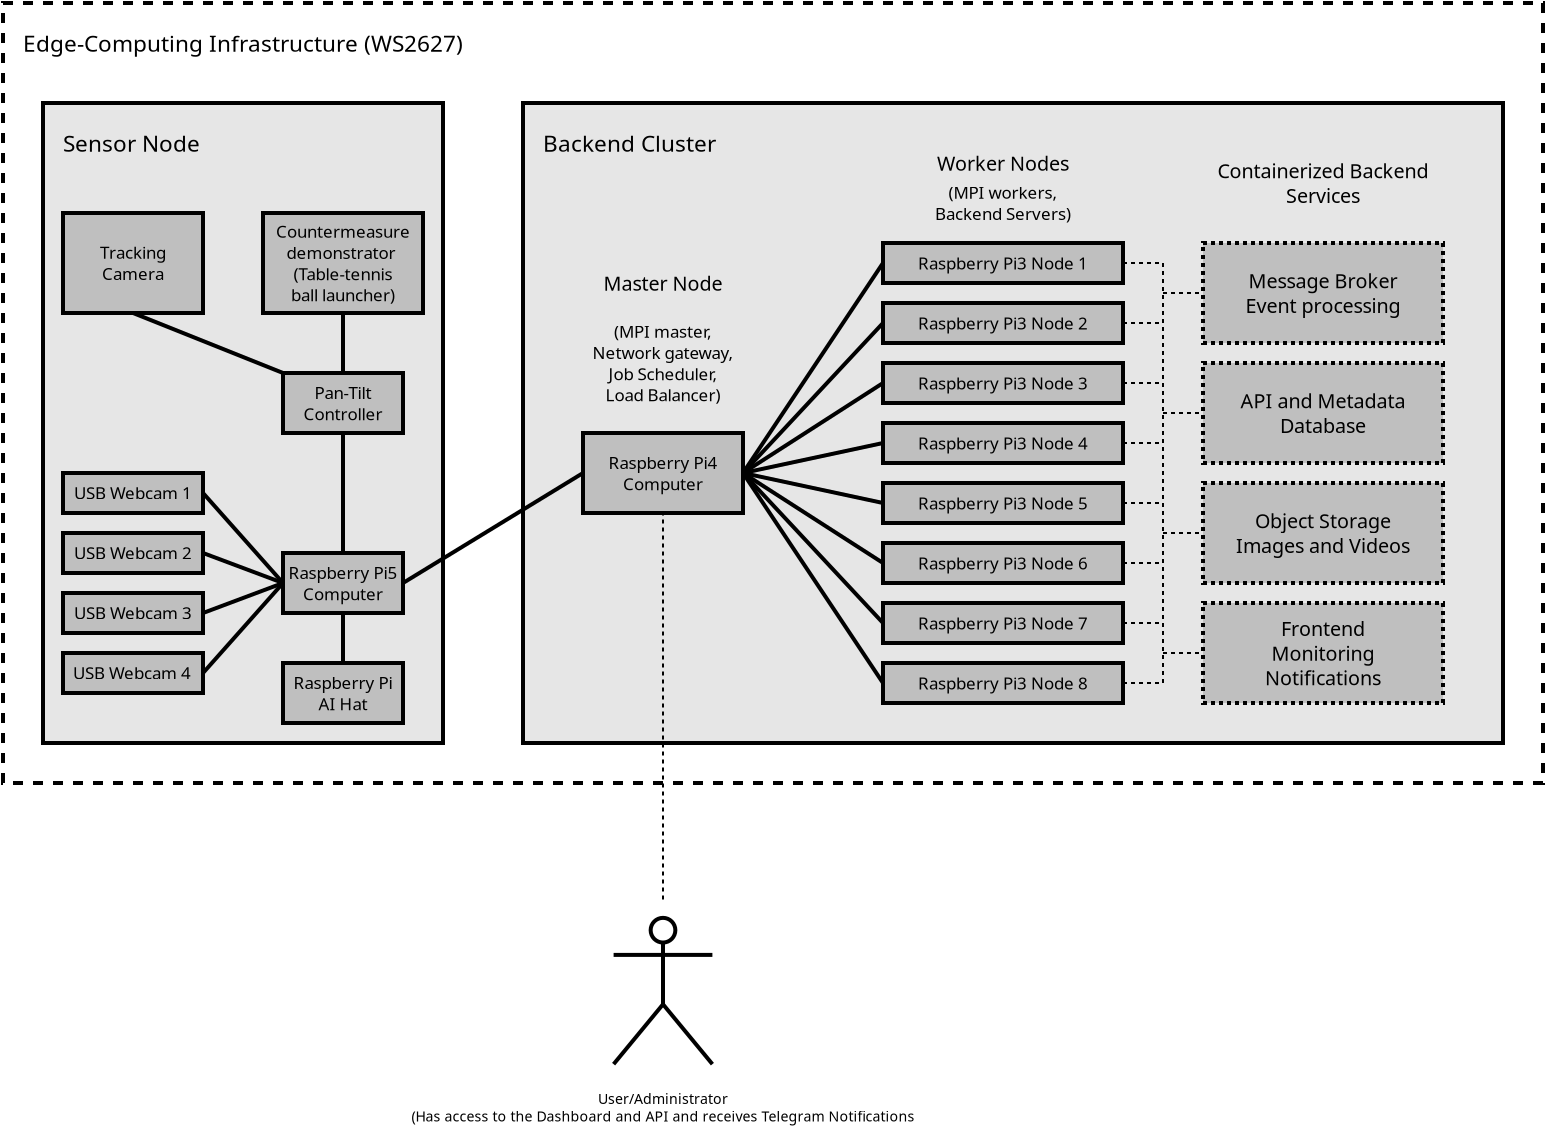
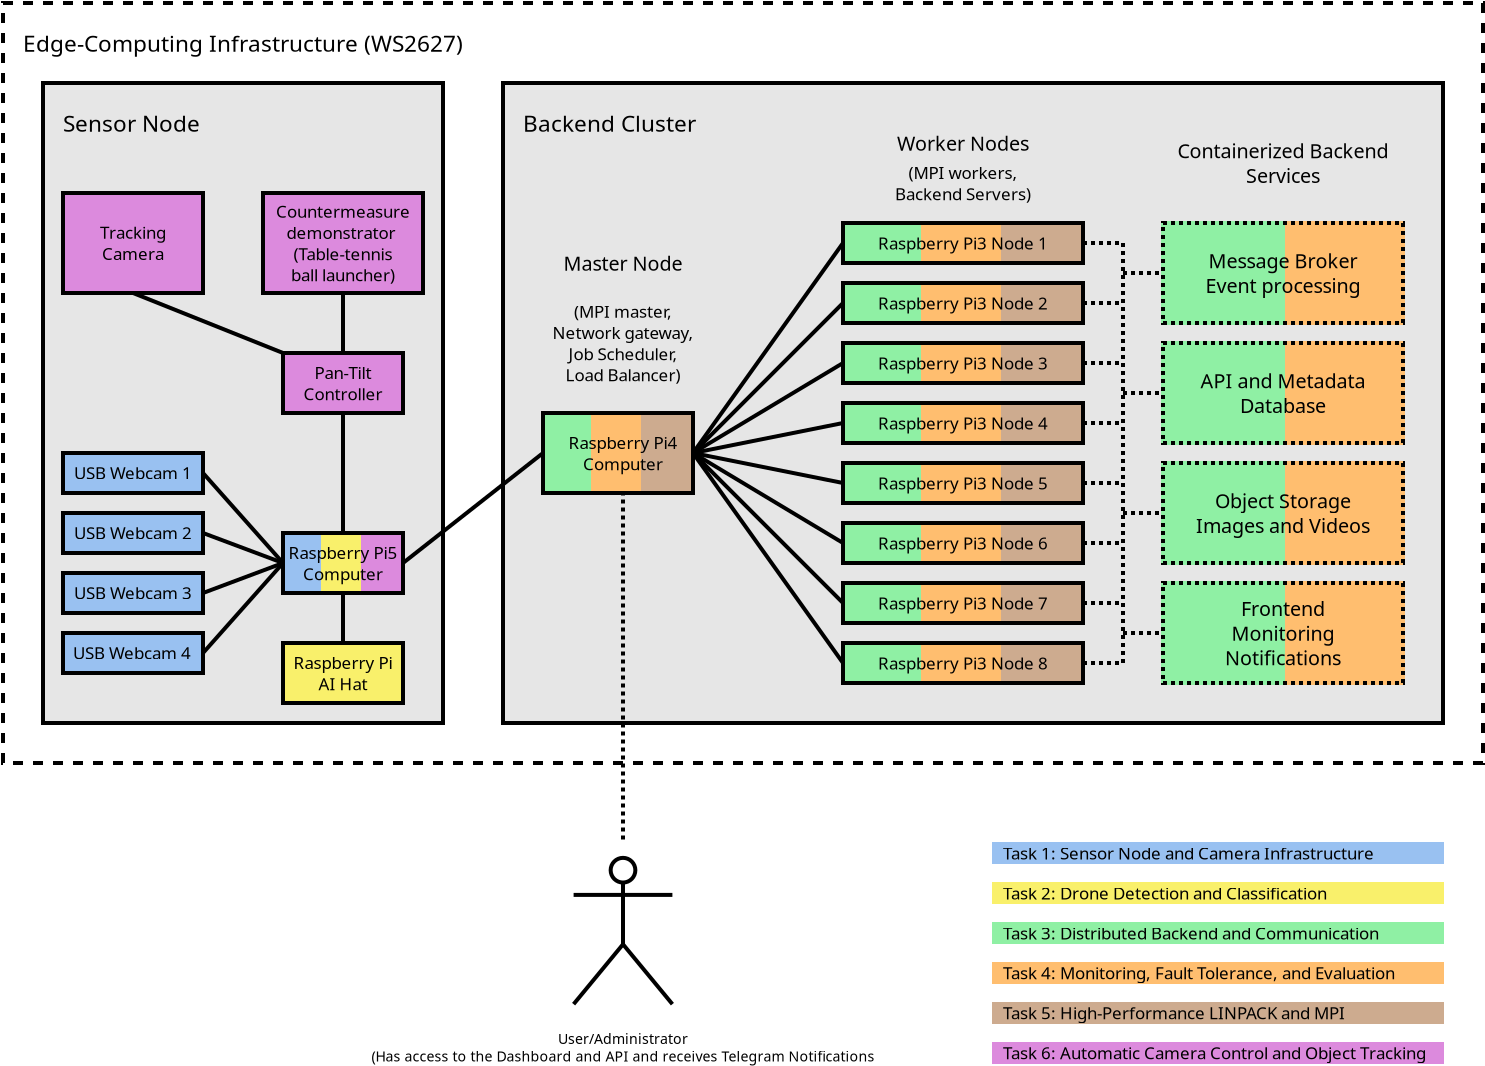
Added thesis information.

diff --git a/CGC2627/index.html b/CGC2627/index.html
@@ -48,6 +48,13 @@
 </p>
 
 <p>
+  <b>
+    This course has no written exam. Instead, your individual grade will depend
+    entirely on your work and the results of the semester project.
+  </b>
+</p>
+
+<p>
   The project includes the following tasks:
 </p>
 
@@ -134,7 +141,7 @@
   </li>
 
   <li>
-    <b>Task 5: Evaluation of Performance and Scalability.</b>
+    <b>Task 5: High-Performance LINPACK and MPI.</b>
     Investigate the performance, measured in
     <a href="https://en.wikipedia.org/wiki/Floating_point_operations_per_second">GFLOPS</a>,
     of the cluster system using the industry-standard HPL benchmark
@@ -148,7 +155,14 @@
     demonstrate
     <a href="https://en.wikipedia.org/wiki/Amdahl%27s_law">Amdahl's law</a> and
     <a href="https://en.wikipedia.org/wiki/Gustafson%27s_law">Gustafson's law</a>
-    using at least two MPI examples.
+    using at least two MPI examples and monitoring the resource utilization by standard tools such as 
+    <a href="https://man7.org/linux/man-pages/man1/free.1.html">free</a>, 
+    <a href="https://man7.org/linux/man-pages/man1/top.1.html">top</a>,  
+    <a href="https://man7.org/linux/man-pages/man1/htop.1.html">htop</a>,  
+    <a href="https://man7.org/linux/man-pages/man1/iostat.1.html">iostat</a>, 
+    <a href="https://man7.org/linux/man-pages/man8/netstat.8.html">netstat</a>, 
+    <a href="https://man7.org/linux/man-pages/man8/vmstat.8.html">vmstat</a>, and 
+    <a href="https://man7.org/linux/man-pages/man8/iotop.8.html">iotop</a>.
   </li>
 
   <li>
@@ -174,14 +188,7 @@
 </ul>
 
 
-<img src="Bilder/Edge_Computing_Infrastructure_WS2627_v1.png" alt="Edge Computing Infrastructure in WS2627" width="1545">
-
-<p>
-  <b>
-    This course has no written exam. Instead, your individual grade will depend
-    entirely on your work and the results of the semester project.
-  </b>
-</p>
+<a href="Bilder/Edge_Computing_Infrastructure_WS2627_v1.png"><img src="Bilder/Edge_Computing_Infrastructure_WS2627_v1.png" alt="Edge Computing Infrastructure in WS2627" height="533"></a>
 
 <p>
   <b>
